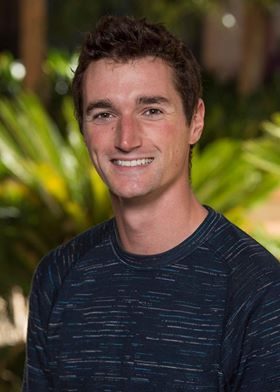
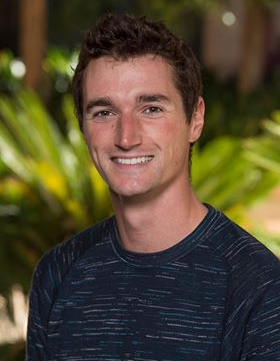
Styling changes

diff --git a/index.html b/index.html
@@ -50,10 +50,10 @@
             <li class="text-muted text-uppercase"><a class="sidebar-link" href="cv.html">CV</a></li>
         </ul><hr>
     <div class="text-center">
+        <a href="mailto:codycook@stanford.edu" target="_blank"><i class="fa fa-envelope-o fa-2x" aria-hidden="true"></i></a> &nbsp;&nbsp;
         <a href="https://scholar.google.com/citations?user=WtulGN0AAAAJ&hl=en&oi=ao"  target="_blank"><i class="fa fa-graduation-cap fa-2x" aria-hidden="true"></i></a> &nbsp;&nbsp;
         <a href="https://github.com/codyfcook/" target="_blank"><i class="fa fa-github fa-2x"></i></a> &nbsp;&nbsp;
         <a href="https://twitter.com/codyfcook" target="_blank"><i class="fa fa-twitter fa-2x" aria-hidden="true"></i></a> &nbsp;&nbsp;
-        <a href="mailto:codycook@stanford.edu" target="_blank"><i class="fa fa-envelope-o fa-2x" aria-hidden="true"></i></a> &nbsp;&nbsp;
     </div>
   </div>
   <br>
@@ -63,7 +63,13 @@
         <h1 class='top-title'>Cody Cook</h1>                 
     </div>
 
-    <div class="col-sm-8">      
+    <div class="col-sm-4 col-sm-push-8">
+        <div class="biothumb">
+            <img alt="image" src="images/headshot.png" class="img-responsive cropped">
+        </div>       
+    </div>
+
+    <div class="col-sm-8 col-sm-pull-4">      
         <div class="well about-well">
             <h3>Biography</h3>
             <p> Welcome! I am a 5th-year PhD candidate in Economics at Stanford GSB, focusing on urban economics. Some of my research interests include affordable housing policies, congestion pricing, and neighborhood amenities.</p>
@@ -82,11 +88,7 @@
         </div>
         </div>  
 
-    <div class="col-sm-4">
-        <div class="biothumb">
-            <img alt="image" src="images/headshot.png" class="img-responsive">
-        </div>       
-    </div>
+
 </div>
 
 </div>

diff --git a/css/styling.css b/css/styling.css
@@ -18,7 +18,7 @@ body {
     font-size: 16px;
     font-family: 'Lato', sans-serif;
     font-weight: 300;
-    background-color: #F8F8F8; 
+    background-color: #f5f5f5; 
     overflow-y: scroll; /* Show vertical scrollbar */
   }
 .about-well{
@@ -59,15 +59,17 @@ body {
 .nav-pills>li.active>a, .nav-pills>li.active>a:focus, .nav-pills>li.active>a:hover {
     color: #fff;
     background-color: #8c1515;
-    text-decoration:none
+    text-decoration:none;
+    font-weight: 400;
 }
 .nav-pills>li>a {
-    border-radius: 0px;
+    border-radius: 2px;
 }
 
 .sidebar-link {
-    color: #484848!important;
+    color: #6f6f6f!important;
     text-decoration: none;
+    font-weight: 400;
 }
 
   /* Panel colors */ 
@@ -121,13 +123,15 @@ h3 {
 .img-responsive {
     display: block;
     height: auto;
-    max-width: 85%;
-    border-radius: 0.5rem;
+    max-width: 100%;
+    border-radius: 2px;
     margin: auto;    
 }
+
+
 /* Padding if small screen */ 
 @media screen and (max-width: 767px) {
-    .img-responsive{padding: 10px 0 0 0; margin-bottom: 30px; }
+    .img-responsive{padding: 1em 0 0 0; margin-bottom: 30px;}
   }
 
 
@@ -195,4 +199,8 @@ a, a:hover, a:focus {
   font-size:60%;
   padding: 0.2em 0.4em 0.2em; 
   vertical-align: middle;
+}
+
+.fa-2x{
+  font-size: 1.7em !important;
 }

diff --git a/research.html b/research.html
@@ -47,10 +47,10 @@
           <li class="text-muted text-uppercase"><a class="sidebar-link" href="cv.html">CV</a></li>
         </ul><hr>
         <div class="text-center">
+          <a href="mailto:codycook@stanford.edu" target="_blank"><i class="fa fa-envelope-o fa-2x" aria-hidden="true"></i></a> &nbsp;&nbsp;
           <a href="https://scholar.google.com/citations?user=WtulGN0AAAAJ&hl=en&oi=ao"  target="_blank"><i class="fa fa-graduation-cap fa-2x" aria-hidden="true"></i></a> &nbsp;&nbsp;
           <a href="https://github.com/codyfcook/" target="_blank"><i class="fa fa-github fa-2x"></i></a> &nbsp;&nbsp;
           <a href="https://twitter.com/codyfcook" target="_blank"><i class="fa fa-twitter fa-2x" aria-hidden="true"></i></a> &nbsp;&nbsp;
-          <a href="mailto:codycook@stanford.edu" target="_blank"><i class="fa fa-envelope-o fa-2x" aria-hidden="true"></i></a> &nbsp;&nbsp;
         </div>
       </div>
       <br>

diff --git a/cv.html b/cv.html
@@ -50,10 +50,10 @@
             <li class="active text-muted text-uppercase"><a href="cv.html">CV</a></li>    
         </ul><hr>
     <div class="text-center">
+        <a href="mailto:codycook@stanford.edu" target="_blank"><i class="fa fa-envelope-o fa-2x" aria-hidden="true"></i></a> &nbsp;&nbsp;
         <a href="https://scholar.google.com/citations?user=WtulGN0AAAAJ&hl=en&oi=ao"  target="_blank"><i class="fa fa-graduation-cap fa-2x" aria-hidden="true"></i></a> &nbsp;&nbsp;
         <a href="https://github.com/codyfcook/" target="_blank"><i class="fa fa-github fa-2x"></i></a> &nbsp;&nbsp;
         <a href="https://twitter.com/codyfcook" target="_blank"><i class="fa fa-twitter fa-2x" aria-hidden="true"></i></a> &nbsp;&nbsp;
-        <a href="mailto:codycook@stanford.edu" target="_blank"><i class="fa fa-envelope-o fa-2x" aria-hidden="true"></i></a> &nbsp;&nbsp;
     </div>
   </div>
   <br>
